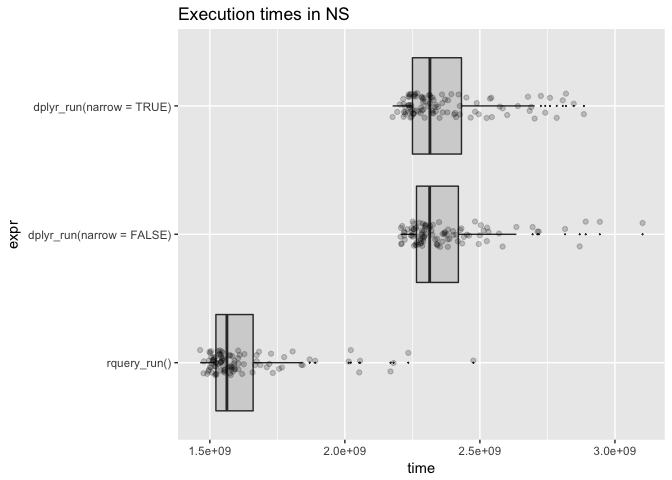
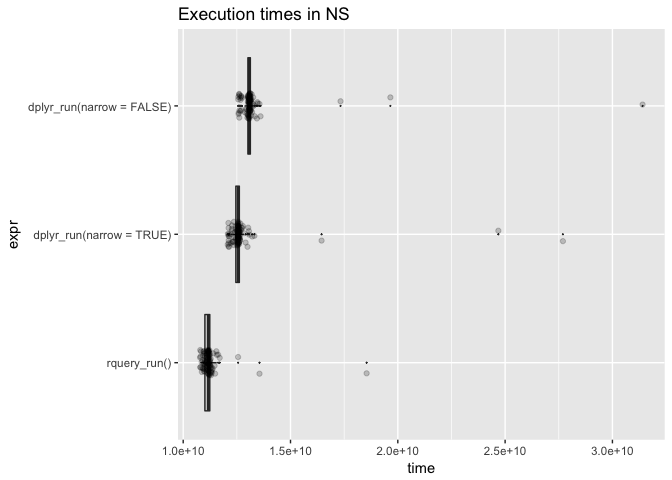
try PostgreSQL

diff --git a/extras/NarrowEffect.md b/extras/NarrowEffect.md
@@ -33,17 +33,17 @@ dT %>%
   cat
 ```
 
-    ## SELECT `subjectID`, `diagnosis`, `probability`
-    ## FROM (SELECT `subjectID`, `surveyCategory` AS `diagnosis`, `assessmentTotal`, `probability`
-    ## FROM (SELECT `subjectID`, `surveyCategory`, `assessmentTotal`, `probability`
-    ## FROM (SELECT `subjectID`, `surveyCategory`, `assessmentTotal`, `probability`, row_number() OVER (PARTITION BY `subjectID` ORDER BY `probability`, `surveyCategory`) AS `zzz3`, COUNT(*) OVER (PARTITION BY `subjectID`) AS `zzz4`
+    ## SELECT "subjectID", "diagnosis", "probability"
+    ## FROM (SELECT "subjectID", "surveyCategory" AS "diagnosis", "assessmentTotal", "probability"
+    ## FROM (SELECT "subjectID", "surveyCategory", "assessmentTotal", "probability"
+    ## FROM (SELECT "subjectID", "surveyCategory", "assessmentTotal", "probability", row_number() OVER (PARTITION BY "subjectID" ORDER BY "probability", "surveyCategory") AS "zzz2", COUNT(*) OVER (PARTITION BY "subjectID") AS "zzz3"
     ## FROM (SELECT *
-    ## FROM (SELECT `subjectID`, `surveyCategory`, `assessmentTotal`, EXP(`assessmentTotal` * 0.237) / sum(EXP(`assessmentTotal` * 0.237)) OVER (PARTITION BY `subjectID`) AS `probability`
-    ## FROM (SELECT `subjectID`, `surveyCategory`, `assessmentTotal`
-    ## FROM `d`) `wzcfitgjwv`) `gmwnudvnns`
-    ## ORDER BY `probability`, `surveyCategory`) `rawrcjblpm`) `dwbokbbfuf`
-    ## WHERE (`zzz3` = `zzz4`)) `zutrlthjas`) `fvqsevfvyh`
-    ## ORDER BY `subjectID`
+    ## FROM (SELECT "subjectID", "surveyCategory", "assessmentTotal", EXP("assessmentTotal" * 0.237) / sum(EXP("assessmentTotal" * 0.237)) OVER (PARTITION BY "subjectID") AS "probability"
+    ## FROM (SELECT "subjectID", "surveyCategory", "assessmentTotal"
+    ## FROM "d") "bdamorcmnk") "abnlhhuzet"
+    ## ORDER BY "probability", "surveyCategory") "pegypbktco") "zahebzxpci"
+    ## WHERE ("zzz2" = "zzz3")) "qdckgpnshg") "esklbdwwkn"
+    ## ORDER BY "subjectID"
 
 ``` r
 dT %>%
@@ -61,16 +61,16 @@ dT %>%
   cat
 ```
 
-    ## SELECT `subjectID`, `diagnosis`, `probability`
-    ## FROM (SELECT `subjectID`, `surveyCategory` AS `diagnosis`, `assessmentTotal`, `irrelevantCol_0000001`, `irrelevantCol_0000002`, `irrelevantCol_0000003`, `irrelevantCol_0000004`, `irrelevantCol_0000005`, `irrelevantCol_0000006`, `irrelevantCol_0000007`, `irrelevantCol_0000008`, `irrelevantCol_0000009`, `irrelevantCol_0000010`, `irrelevantCol_0000011`, `irrelevantCol_0000012`, `irrelevantCol_0000013`, `irrelevantCol_0000014`, `irrelevantCol_0000015`, `irrelevantCol_0000016`, `irrelevantCol_0000017`, `irrelevantCol_0000018`, `irrelevantCol_0000019`, `irrelevantCol_0000020`, `irrelevantCol_0000021`, `irrelevantCol_0000022`, `irrelevantCol_0000023`, `irrelevantCol_0000024`, `irrelevantCol_0000025`, `irrelevantCol_0000026`, `irrelevantCol_0000027`, `irrelevantCol_0000028`, `irrelevantCol_0000029`, `irrelevantCol_0000030`, `irrelevantCol_0000031`, `irrelevantCol_0000032`, `irrelevantCol_0000033`, `irrelevantCol_0000034`, `irrelevantCol_0000035`, `irrelevantCol_0000036`, `irrelevantCol_0000037`, `irrelevantCol_0000038`, `irrelevantCol_0000039`, `irrelevantCol_0000040`, `irrelevantCol_0000041`, `irrelevantCol_0000042`, `irrelevantCol_0000043`, `irrelevantCol_0000044`, `irrelevantCol_0000045`, `irrelevantCol_0000046`, `irrelevantCol_0000047`, `irrelevantCol_0000048`, `irrelevantCol_0000049`, `irrelevantCol_0000050`, `probability`
-    ## FROM (SELECT `subjectID`, `surveyCategory`, `assessmentTotal`, `irrelevantCol_0000001`, `irrelevantCol_0000002`, `irrelevantCol_0000003`, `irrelevantCol_0000004`, `irrelevantCol_0000005`, `irrelevantCol_0000006`, `irrelevantCol_0000007`, `irrelevantCol_0000008`, `irrelevantCol_0000009`, `irrelevantCol_0000010`, `irrelevantCol_0000011`, `irrelevantCol_0000012`, `irrelevantCol_0000013`, `irrelevantCol_0000014`, `irrelevantCol_0000015`, `irrelevantCol_0000016`, `irrelevantCol_0000017`, `irrelevantCol_0000018`, `irrelevantCol_0000019`, `irrelevantCol_0000020`, `irrelevantCol_0000021`, `irrelevantCol_0000022`, `irrelevantCol_0000023`, `irrelevantCol_0000024`, `irrelevantCol_0000025`, `irrelevantCol_0000026`, `irrelevantCol_0000027`, `irrelevantCol_0000028`, `irrelevantCol_0000029`, `irrelevantCol_0000030`, `irrelevantCol_0000031`, `irrelevantCol_0000032`, `irrelevantCol_0000033`, `irrelevantCol_0000034`, `irrelevantCol_0000035`, `irrelevantCol_0000036`, `irrelevantCol_0000037`, `irrelevantCol_0000038`, `irrelevantCol_0000039`, `irrelevantCol_0000040`, `irrelevantCol_0000041`, `irrelevantCol_0000042`, `irrelevantCol_0000043`, `irrelevantCol_0000044`, `irrelevantCol_0000045`, `irrelevantCol_0000046`, `irrelevantCol_0000047`, `irrelevantCol_0000048`, `irrelevantCol_0000049`, `irrelevantCol_0000050`, `probability`
-    ## FROM (SELECT `subjectID`, `surveyCategory`, `assessmentTotal`, `irrelevantCol_0000001`, `irrelevantCol_0000002`, `irrelevantCol_0000003`, `irrelevantCol_0000004`, `irrelevantCol_0000005`, `irrelevantCol_0000006`, `irrelevantCol_0000007`, `irrelevantCol_0000008`, `irrelevantCol_0000009`, `irrelevantCol_0000010`, `irrelevantCol_0000011`, `irrelevantCol_0000012`, `irrelevantCol_0000013`, `irrelevantCol_0000014`, `irrelevantCol_0000015`, `irrelevantCol_0000016`, `irrelevantCol_0000017`, `irrelevantCol_0000018`, `irrelevantCol_0000019`, `irrelevantCol_0000020`, `irrelevantCol_0000021`, `irrelevantCol_0000022`, `irrelevantCol_0000023`, `irrelevantCol_0000024`, `irrelevantCol_0000025`, `irrelevantCol_0000026`, `irrelevantCol_0000027`, `irrelevantCol_0000028`, `irrelevantCol_0000029`, `irrelevantCol_0000030`, `irrelevantCol_0000031`, `irrelevantCol_0000032`, `irrelevantCol_0000033`, `irrelevantCol_0000034`, `irrelevantCol_0000035`, `irrelevantCol_0000036`, `irrelevantCol_0000037`, `irrelevantCol_0000038`, `irrelevantCol_0000039`, `irrelevantCol_0000040`, `irrelevantCol_0000041`, `irrelevantCol_0000042`, `irrelevantCol_0000043`, `irrelevantCol_0000044`, `irrelevantCol_0000045`, `irrelevantCol_0000046`, `irrelevantCol_0000047`, `irrelevantCol_0000048`, `irrelevantCol_0000049`, `irrelevantCol_0000050`, `probability`, row_number() OVER (PARTITION BY `subjectID` ORDER BY `probability`, `surveyCategory`) AS `zzz5`, COUNT(*) OVER (PARTITION BY `subjectID`) AS `zzz6`
+    ## SELECT "subjectID", "diagnosis", "probability"
+    ## FROM (SELECT "subjectID", "surveyCategory" AS "diagnosis", "assessmentTotal", "irrelevantCol_0000001", "irrelevantCol_0000002", "irrelevantCol_0000003", "irrelevantCol_0000004", "irrelevantCol_0000005", "irrelevantCol_0000006", "irrelevantCol_0000007", "irrelevantCol_0000008", "irrelevantCol_0000009", "irrelevantCol_0000010", "irrelevantCol_0000011", "irrelevantCol_0000012", "irrelevantCol_0000013", "irrelevantCol_0000014", "irrelevantCol_0000015", "irrelevantCol_0000016", "irrelevantCol_0000017", "irrelevantCol_0000018", "irrelevantCol_0000019", "irrelevantCol_0000020", "irrelevantCol_0000021", "irrelevantCol_0000022", "irrelevantCol_0000023", "irrelevantCol_0000024", "irrelevantCol_0000025", "irrelevantCol_0000026", "irrelevantCol_0000027", "irrelevantCol_0000028", "irrelevantCol_0000029", "irrelevantCol_0000030", "irrelevantCol_0000031", "irrelevantCol_0000032", "irrelevantCol_0000033", "irrelevantCol_0000034", "irrelevantCol_0000035", "irrelevantCol_0000036", "irrelevantCol_0000037", "irrelevantCol_0000038", "irrelevantCol_0000039", "irrelevantCol_0000040", "irrelevantCol_0000041", "irrelevantCol_0000042", "irrelevantCol_0000043", "irrelevantCol_0000044", "irrelevantCol_0000045", "irrelevantCol_0000046", "irrelevantCol_0000047", "irrelevantCol_0000048", "irrelevantCol_0000049", "irrelevantCol_0000050", "probability"
+    ## FROM (SELECT "subjectID", "surveyCategory", "assessmentTotal", "irrelevantCol_0000001", "irrelevantCol_0000002", "irrelevantCol_0000003", "irrelevantCol_0000004", "irrelevantCol_0000005", "irrelevantCol_0000006", "irrelevantCol_0000007", "irrelevantCol_0000008", "irrelevantCol_0000009", "irrelevantCol_0000010", "irrelevantCol_0000011", "irrelevantCol_0000012", "irrelevantCol_0000013", "irrelevantCol_0000014", "irrelevantCol_0000015", "irrelevantCol_0000016", "irrelevantCol_0000017", "irrelevantCol_0000018", "irrelevantCol_0000019", "irrelevantCol_0000020", "irrelevantCol_0000021", "irrelevantCol_0000022", "irrelevantCol_0000023", "irrelevantCol_0000024", "irrelevantCol_0000025", "irrelevantCol_0000026", "irrelevantCol_0000027", "irrelevantCol_0000028", "irrelevantCol_0000029", "irrelevantCol_0000030", "irrelevantCol_0000031", "irrelevantCol_0000032", "irrelevantCol_0000033", "irrelevantCol_0000034", "irrelevantCol_0000035", "irrelevantCol_0000036", "irrelevantCol_0000037", "irrelevantCol_0000038", "irrelevantCol_0000039", "irrelevantCol_0000040", "irrelevantCol_0000041", "irrelevantCol_0000042", "irrelevantCol_0000043", "irrelevantCol_0000044", "irrelevantCol_0000045", "irrelevantCol_0000046", "irrelevantCol_0000047", "irrelevantCol_0000048", "irrelevantCol_0000049", "irrelevantCol_0000050", "probability"
+    ## FROM (SELECT "subjectID", "surveyCategory", "assessmentTotal", "irrelevantCol_0000001", "irrelevantCol_0000002", "irrelevantCol_0000003", "irrelevantCol_0000004", "irrelevantCol_0000005", "irrelevantCol_0000006", "irrelevantCol_0000007", "irrelevantCol_0000008", "irrelevantCol_0000009", "irrelevantCol_0000010", "irrelevantCol_0000011", "irrelevantCol_0000012", "irrelevantCol_0000013", "irrelevantCol_0000014", "irrelevantCol_0000015", "irrelevantCol_0000016", "irrelevantCol_0000017", "irrelevantCol_0000018", "irrelevantCol_0000019", "irrelevantCol_0000020", "irrelevantCol_0000021", "irrelevantCol_0000022", "irrelevantCol_0000023", "irrelevantCol_0000024", "irrelevantCol_0000025", "irrelevantCol_0000026", "irrelevantCol_0000027", "irrelevantCol_0000028", "irrelevantCol_0000029", "irrelevantCol_0000030", "irrelevantCol_0000031", "irrelevantCol_0000032", "irrelevantCol_0000033", "irrelevantCol_0000034", "irrelevantCol_0000035", "irrelevantCol_0000036", "irrelevantCol_0000037", "irrelevantCol_0000038", "irrelevantCol_0000039", "irrelevantCol_0000040", "irrelevantCol_0000041", "irrelevantCol_0000042", "irrelevantCol_0000043", "irrelevantCol_0000044", "irrelevantCol_0000045", "irrelevantCol_0000046", "irrelevantCol_0000047", "irrelevantCol_0000048", "irrelevantCol_0000049", "irrelevantCol_0000050", "probability", row_number() OVER (PARTITION BY "subjectID" ORDER BY "probability", "surveyCategory") AS "zzz4", COUNT(*) OVER (PARTITION BY "subjectID") AS "zzz5"
     ## FROM (SELECT *
-    ## FROM (SELECT `subjectID`, `surveyCategory`, `assessmentTotal`, `irrelevantCol_0000001`, `irrelevantCol_0000002`, `irrelevantCol_0000003`, `irrelevantCol_0000004`, `irrelevantCol_0000005`, `irrelevantCol_0000006`, `irrelevantCol_0000007`, `irrelevantCol_0000008`, `irrelevantCol_0000009`, `irrelevantCol_0000010`, `irrelevantCol_0000011`, `irrelevantCol_0000012`, `irrelevantCol_0000013`, `irrelevantCol_0000014`, `irrelevantCol_0000015`, `irrelevantCol_0000016`, `irrelevantCol_0000017`, `irrelevantCol_0000018`, `irrelevantCol_0000019`, `irrelevantCol_0000020`, `irrelevantCol_0000021`, `irrelevantCol_0000022`, `irrelevantCol_0000023`, `irrelevantCol_0000024`, `irrelevantCol_0000025`, `irrelevantCol_0000026`, `irrelevantCol_0000027`, `irrelevantCol_0000028`, `irrelevantCol_0000029`, `irrelevantCol_0000030`, `irrelevantCol_0000031`, `irrelevantCol_0000032`, `irrelevantCol_0000033`, `irrelevantCol_0000034`, `irrelevantCol_0000035`, `irrelevantCol_0000036`, `irrelevantCol_0000037`, `irrelevantCol_0000038`, `irrelevantCol_0000039`, `irrelevantCol_0000040`, `irrelevantCol_0000041`, `irrelevantCol_0000042`, `irrelevantCol_0000043`, `irrelevantCol_0000044`, `irrelevantCol_0000045`, `irrelevantCol_0000046`, `irrelevantCol_0000047`, `irrelevantCol_0000048`, `irrelevantCol_0000049`, `irrelevantCol_0000050`, EXP(`assessmentTotal` * 0.237) / sum(EXP(`assessmentTotal` * 0.237)) OVER (PARTITION BY `subjectID`) AS `probability`
-    ## FROM `d`) `emjbjxffvh`
-    ## ORDER BY `probability`, `surveyCategory`) `rxazangiow`) `prfvmkhdke`
-    ## WHERE (`zzz5` = `zzz6`)) `xogcinsccq`) `wgzaeqxhst`
-    ## ORDER BY `subjectID`
+    ## FROM (SELECT "subjectID", "surveyCategory", "assessmentTotal", "irrelevantCol_0000001", "irrelevantCol_0000002", "irrelevantCol_0000003", "irrelevantCol_0000004", "irrelevantCol_0000005", "irrelevantCol_0000006", "irrelevantCol_0000007", "irrelevantCol_0000008", "irrelevantCol_0000009", "irrelevantCol_0000010", "irrelevantCol_0000011", "irrelevantCol_0000012", "irrelevantCol_0000013", "irrelevantCol_0000014", "irrelevantCol_0000015", "irrelevantCol_0000016", "irrelevantCol_0000017", "irrelevantCol_0000018", "irrelevantCol_0000019", "irrelevantCol_0000020", "irrelevantCol_0000021", "irrelevantCol_0000022", "irrelevantCol_0000023", "irrelevantCol_0000024", "irrelevantCol_0000025", "irrelevantCol_0000026", "irrelevantCol_0000027", "irrelevantCol_0000028", "irrelevantCol_0000029", "irrelevantCol_0000030", "irrelevantCol_0000031", "irrelevantCol_0000032", "irrelevantCol_0000033", "irrelevantCol_0000034", "irrelevantCol_0000035", "irrelevantCol_0000036", "irrelevantCol_0000037", "irrelevantCol_0000038", "irrelevantCol_0000039", "irrelevantCol_0000040", "irrelevantCol_0000041", "irrelevantCol_0000042", "irrelevantCol_0000043", "irrelevantCol_0000044", "irrelevantCol_0000045", "irrelevantCol_0000046", "irrelevantCol_0000047", "irrelevantCol_0000048", "irrelevantCol_0000049", "irrelevantCol_0000050", EXP("assessmentTotal" * 0.237) / sum(EXP("assessmentTotal" * 0.237)) OVER (PARTITION BY "subjectID") AS "probability"
+    ## FROM "d") "zfxnspclew"
+    ## ORDER BY "probability", "surveyCategory") "bxhbojqgdf") "txucgqntjb"
+    ## WHERE ("zzz4" = "zzz5")) "zutywpwiju") "nzphimghkq"
+    ## ORDER BY "subjectID"
 
 ``` r
 dplyr_run <- function(narrow) {
@@ -100,14 +100,14 @@ dplyr_run(narrow=FALSE)
 ```
 
     ##   subjectID           diagnosis probability
-    ## 1         1 withdrawal behavior         0.5
+    ## 1         1 withdrawal behavior   0.7207128
 
 ``` r
 dplyr_run(narrow=TRUE)
 ```
 
     ##   subjectID           diagnosis probability
-    ## 1         1 withdrawal behavior         0.5
+    ## 1         1 withdrawal behavior   0.7207128
 
 ``` r
 optree <- dR %.>%
@@ -133,45 +133,45 @@ cat(to_sql(optree, my_db))
 
     ## SELECT * FROM (
     ##  SELECT
-    ##   `subjectID`,
-    ##   `diagnosis`,
-    ##   `probability`
+    ##   "subjectID",
+    ##   "diagnosis",
+    ##   "probability"
     ##  FROM (
     ##   SELECT * FROM (
     ##    SELECT
-    ##     `count` AS `count`,
-    ##     `probability` AS `probability`,
-    ##     `rank` AS `rank`,
-    ##     `subjectID` AS `subjectID`,
-    ##     `surveyCategory` AS `diagnosis`
+    ##     "count" AS "count",
+    ##     "probability" AS "probability",
+    ##     "rank" AS "rank",
+    ##     "subjectID" AS "subjectID",
+    ##     "surveyCategory" AS "diagnosis"
     ##    FROM (
     ##     SELECT
-    ##      `count`,
-    ##      `probability`,
-    ##      `subjectID`,
-    ##      `surveyCategory`,
-    ##      row_number ( ) OVER (  PARTITION BY `subjectID` ORDER BY `probability`, `surveyCategory` ) AS `rank`
+    ##      "count",
+    ##      "probability",
+    ##      "subjectID",
+    ##      "surveyCategory",
+    ##      row_number ( ) OVER (  PARTITION BY "subjectID" ORDER BY "probability", "surveyCategory" ) AS "rank"
     ##     FROM (
     ##      SELECT
-    ##       `subjectID`,
-    ##       `surveyCategory`,
-    ##       `assessmentTotal`,
-    ##       exp ( `assessmentTotal` * 0.237 ) / sum ( exp ( `assessmentTotal` * 0.237 ) ) OVER (  PARTITION BY `subjectID` ) AS `probability`,
-    ##       count ( 1 ) OVER (  PARTITION BY `subjectID` ) AS `count`
+    ##       "subjectID",
+    ##       "surveyCategory",
+    ##       "assessmentTotal",
+    ##       exp ( "assessmentTotal" * 0.237 ) / sum ( exp ( "assessmentTotal" * 0.237 ) ) OVER (  PARTITION BY "subjectID" ) AS "probability",
+    ##       count ( 1 ) OVER (  PARTITION BY "subjectID" ) AS "count"
     ##      FROM (
     ##       SELECT
-    ##        `d`.`subjectID`,
-    ##        `d`.`surveyCategory`,
-    ##        `d`.`assessmentTotal`
+    ##        "d"."subjectID",
+    ##        "d"."surveyCategory",
+    ##        "d"."assessmentTotal"
     ##       FROM
-    ##        `d`
-    ##       ) tsql_00588100151453872693_0000000000
-    ##      ) tsql_00588100151453872693_0000000001
-    ##    ) tsql_00588100151453872693_0000000002
-    ##   ) tsql_00588100151453872693_0000000003
-    ##   WHERE `rank` = `count`
-    ##  ) tsql_00588100151453872693_0000000004
-    ## ) tsql_00588100151453872693_0000000005 ORDER BY `subjectID`
+    ##        "d"
+    ##       ) tsql_29702956646449230498_0000000000
+    ##      ) tsql_29702956646449230498_0000000001
+    ##    ) tsql_29702956646449230498_0000000002
+    ##   ) tsql_29702956646449230498_0000000003
+    ##   WHERE "rank" = "count"
+    ##  ) tsql_29702956646449230498_0000000004
+    ## ) tsql_29702956646449230498_0000000005 ORDER BY "subjectID"
 
 ``` r
 rquery_run <- function() {
@@ -199,7 +199,7 @@ rquery_run()
 ```
 
     ##   subjectID           diagnosis probability
-    ## 1         1 withdrawal behavior         0.5
+    ## 1         1 withdrawal behavior   0.7207128
 
 We can get timings for variations of the function:
 
@@ -222,13 +222,13 @@ print(timings)
 
     ## Unit: seconds
     ##                       expr      min       lq     mean   median       uq
-    ##  dplyr_run(narrow = FALSE) 2.206267 2.264689 2.374878 2.314031 2.422645
-    ##   dplyr_run(narrow = TRUE) 2.176811 2.249123 2.378091 2.314926 2.437780
-    ##               rquery_run() 1.464025 1.522264 1.630283 1.563187 1.662646
+    ##  dplyr_run(narrow = FALSE) 12.56603 13.01541 13.32985 13.07756 13.13051
+    ##   dplyr_run(narrow = TRUE) 12.07455 12.45144 12.84304 12.56274 12.61701
+    ##               rquery_run() 10.78873 11.00856 11.25917 11.17210 11.23985
     ##       max neval
-    ##  3.102350   100
-    ##  2.885108   100
-    ##  2.475768   100
+    ##  31.40479   100
+    ##  27.69234   100
+    ##  18.54649   100
 
 ``` r
 autoplot(timings)
